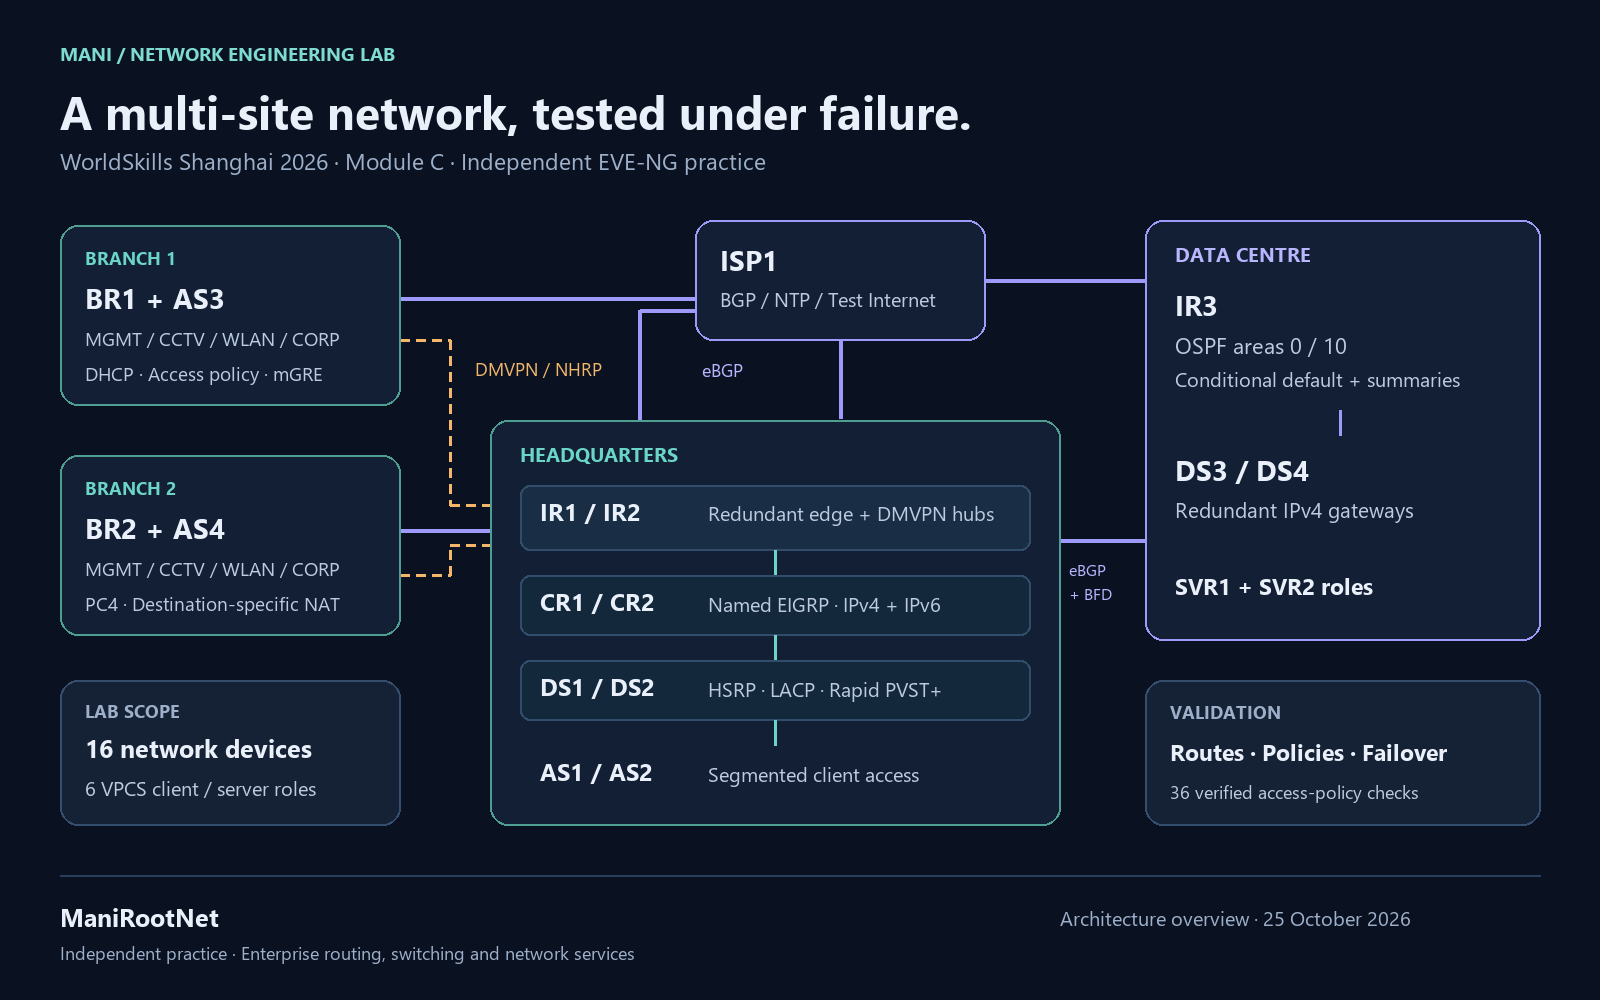
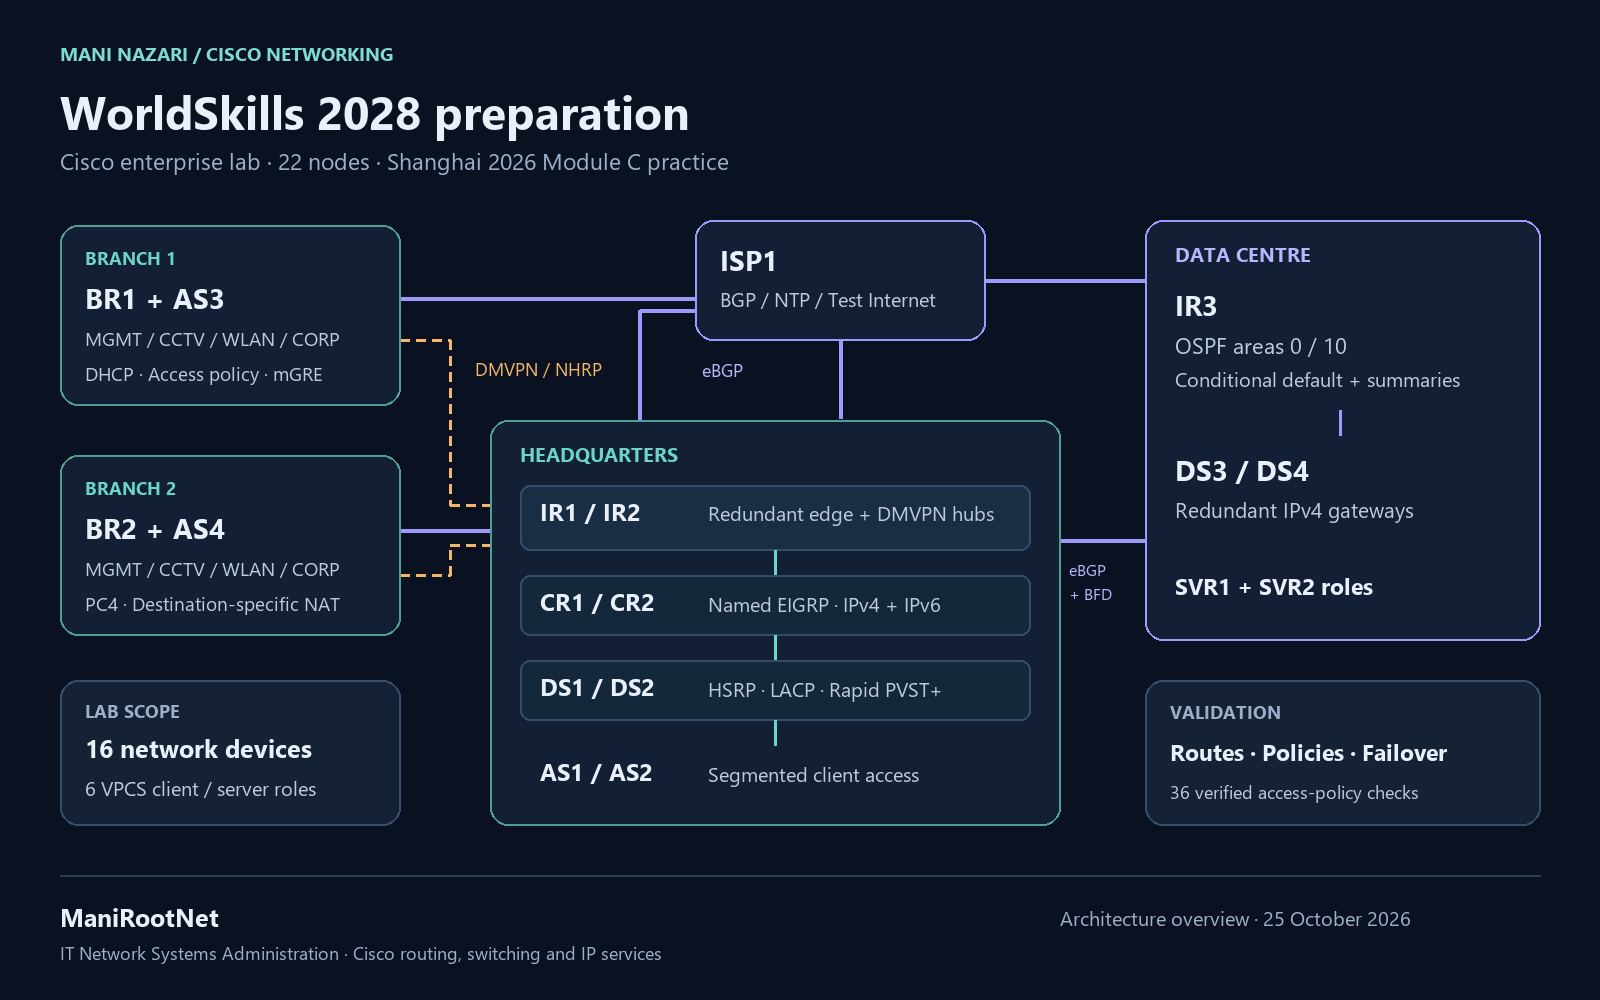
docs: position Cisco portfolio within WorldSkills 2028 preparation

Changed region(s): [[0.0312, 0.093, 0.5938, 0.186], [0.0312, 0.93, 0.4062, 0.961], [0.0625, 0.031, 0.25, 0.062]]

diff --git a/README.md b/README.md
@@ -1,12 +1,24 @@
-# Shanghai 2026 Enterprise Network Lab
+# Cisco Enterprise Networking | WorldSkills 2028 Preparation
 
-**Mani Nazari · Network engineering portfolio**
+**Mani Nazari · IT Network Systems Administration · Cisco portfolio**
 
-A four-site Cisco network built in EVE-NG: headquarters, a data centre and two branches connected through a simulated service provider. Personal practice based on the Shanghai 2026 IT Network Systems Administration Module C material.
+I am preparing for **WorldSkills Aichi 2028**, with a focus on IT Network Systems Administration. This repository documents the Cisco networking part of that preparation through a working enterprise lab and selected validation evidence.
 
-**22 nodes · 36/36 verified access-policy checks · Dual-hub DMVPN · Routing and resilience evidence**
+The technical reference is **Shanghai 2026, Module C**. I recreated its networking scenario in EVE-NG, connecting headquarters, a data centre and two branches through a simulated ISP.
 
-![Architecture overview](assets/architecture.png)
+**22 nodes · 4 sites · 36/36 verified access-policy checks · Dual-hub DMVPN**
+
+![Cisco enterprise network architecture for WorldSkills 2028 preparation](assets/architecture.png)
+
+## WorldSkills 2028 preparation
+
+This project develops Cisco routing, switching, network services and practical verification skills. The published records connect the topology to protocol state and observed endpoint behavior, so another engineer can review the implementation.
+
+| Preparation goal | Practice reference | Portfolio focus |
+| --- | --- | --- |
+| WorldSkills Aichi 2028 | Shanghai 2026 IT Network Systems Administration, Module C | Cisco enterprise networking in EVE-NG |
+
+[WorldSkills Aichi 2028](https://worldskills.org/media/news/worldskills-japan-will-host-49th-worldskills-competition/) · [IT Network Systems Administration](https://worldskills.org/skills/id/212/)
 
 ## Engineering scope
 
@@ -49,6 +61,7 @@ The [verification guide](docs/verification-guide.md) explains the collection met
 | Item | Detail |
 | --- | --- |
 | Initial implementation | Mani Nazari |
+| Preparation goal | WorldSkills Aichi 2028 — IT Network Systems Administration |
 | Environment | EVE-NG on VMware, Cisco IOS routers and switches |
 | Validation record | Live console review and controlled tests, 25 October 2026 |
 | Reference | Locally supplied WSC2026 TP39 Module C practice material |

diff --git a/docs/skills-and-evidence.md b/docs/skills-and-evidence.md
@@ -1,4 +1,6 @@
-# Skills and evidence
+# Cisco Skills and Evidence | WorldSkills 2028 Preparation
+
+This map connects the Cisco skills practised for WorldSkills 2028 with selected evidence from the Shanghai 2026 Module C lab.
 
 | Skill | Evidence to inspect |
 | --- | --- |
